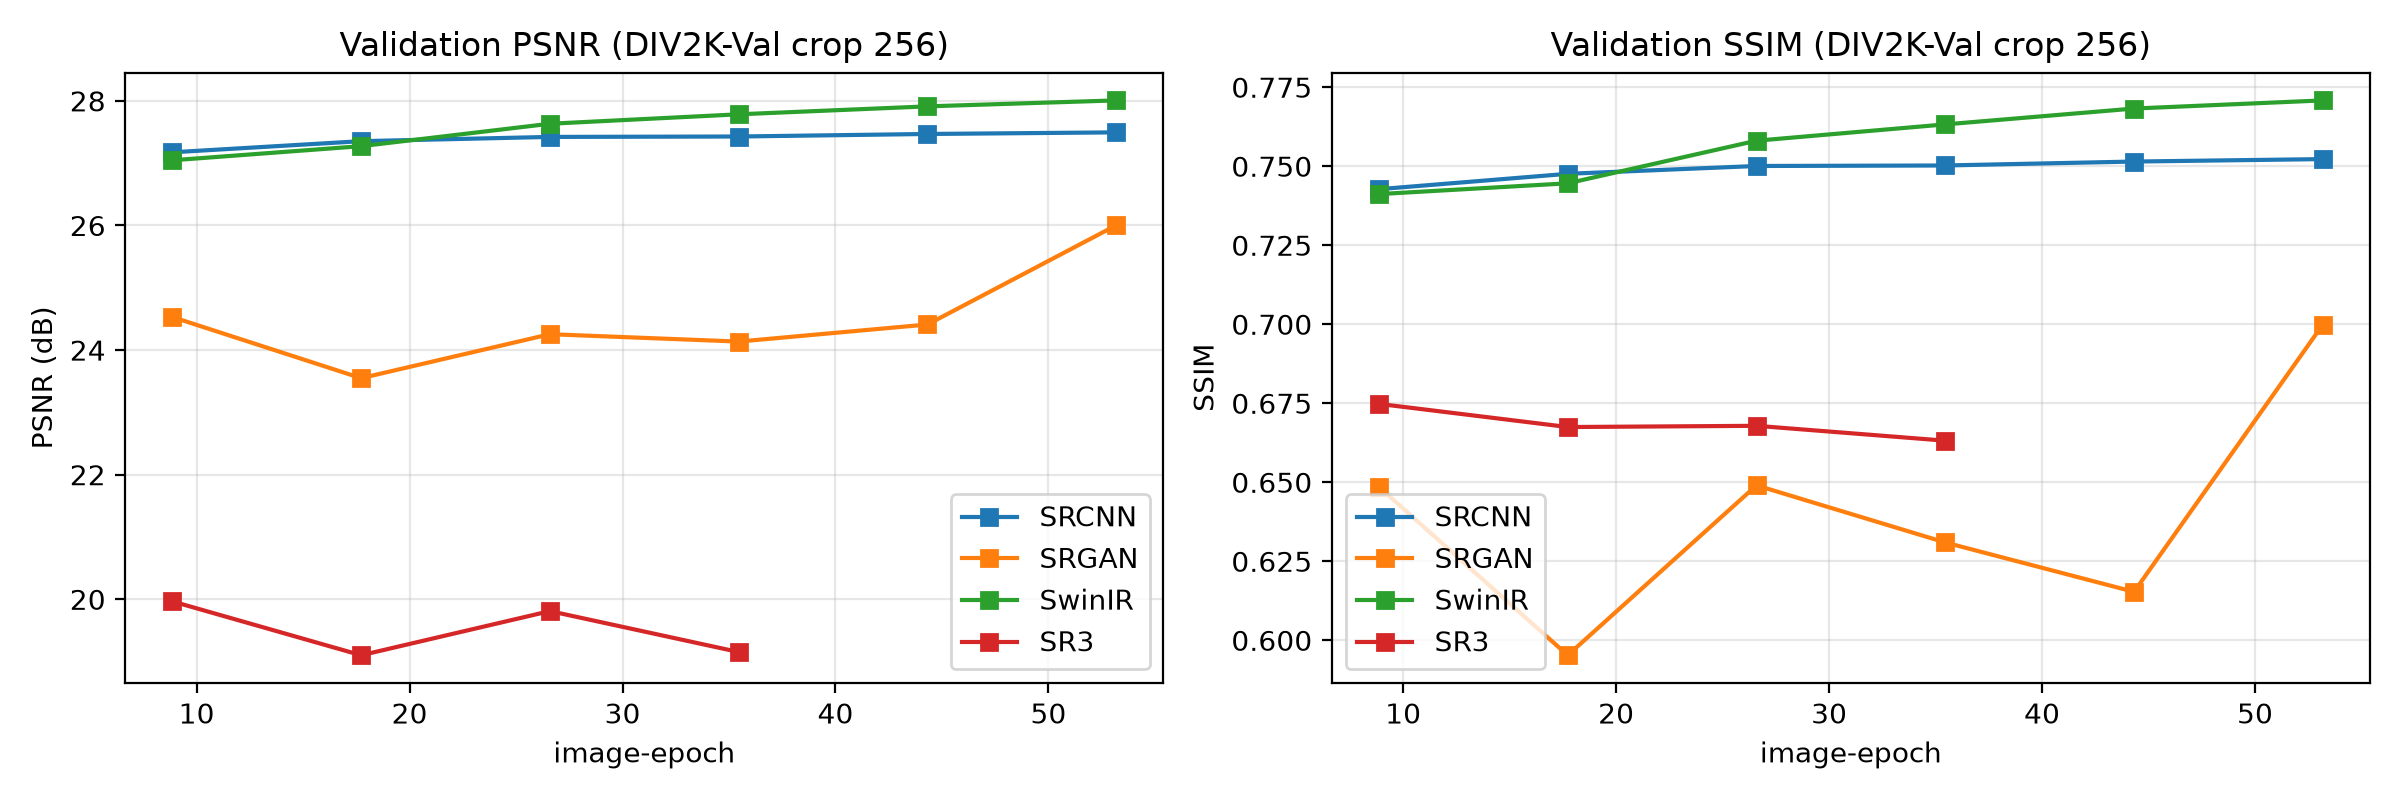
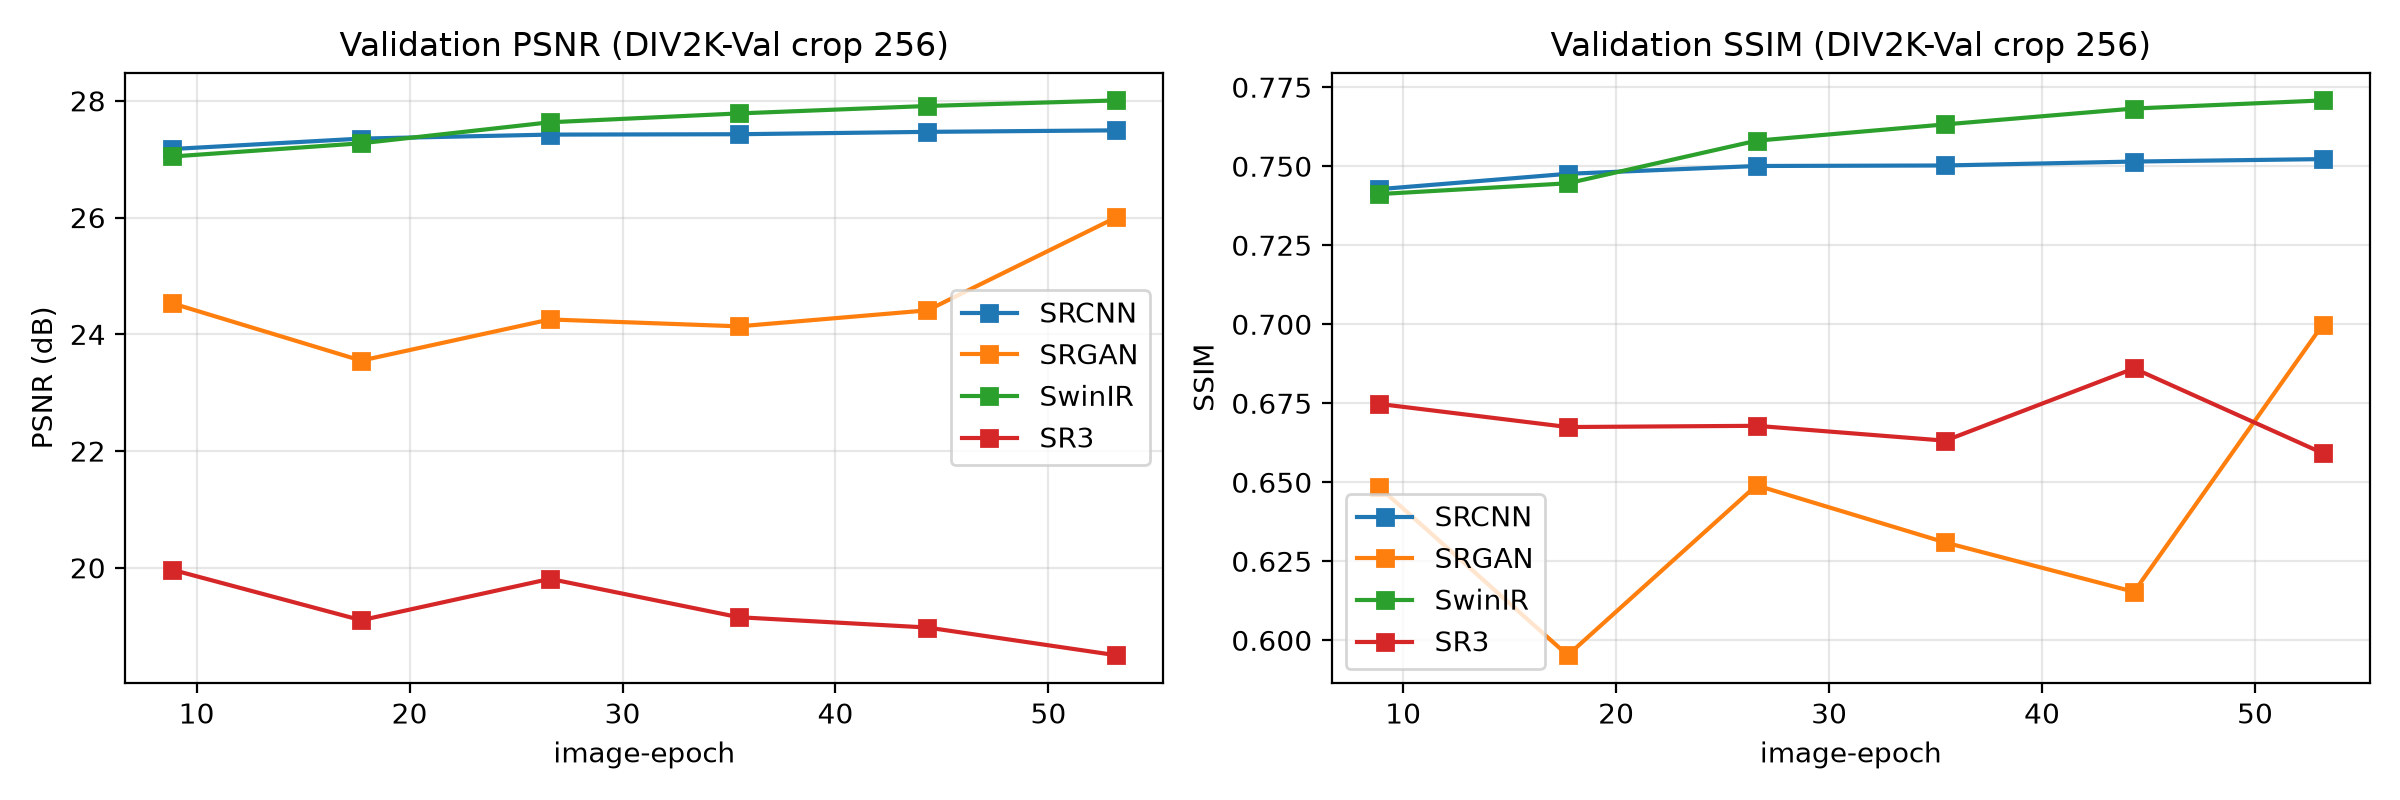
SR3 full-budget run (6 epochs) + unified final-checkpoint eval protocol
Resume SR3 from epoch 4 through the full 6-epoch budget (early stop off).
Two extra epochs trade ~1dB PSNR for large perceptual gains: LPIPS 0.359->0.314,
NIQE 4.85->4.76, MUSIQ 30.3->42.4 (now best), CLIPIQA 0.40->0.53.

Evaluation protocol unified to the final checkpoint after the equal budget for
all four models (identical to best-checkpoint for SRCNN/SRGAN/SwinIR, whose val
metric peaked at the last epoch). Updated comparison results, report figures,
and experiments section accordingly.

diff --git a/scripts/eval_all.py b/scripts/eval_all.py
@@ -28,7 +28,8 @@ RUNS = {
 def eval_one(cfg_path):
     cfg = load_config(cfg_path)
     out = Path(f"experiments/{cfg.name}")
-    ckpt = out / "best.pth" if (out / "best.pth").exists() else out / "last.pth"
+    # protocol: final checkpoint after the equal training budget
+    ckpt = out / "last.pth"
     print(f"checkpoint: {ckpt}", flush=True)
     model = build_model(cfg.model).to(DEVICE)
     state = torch.load(ckpt, map_location=DEVICE, weights_only=False)

diff --git a/scripts/make_report_figures.py b/scripts/make_report_figures.py
@@ -92,7 +92,7 @@ def fig_qualitative(indices=(3, 17, 46)):
     for name, cfg_path in MODELS.items():
         cfg = load_config(cfg_path)
         m = build_model(cfg.model).to(DEVICE).eval()
-        state = torch.load(f"experiments/{cfg.name}/best.pth",
+        state = torch.load(f"experiments/{cfg.name}/last.pth",  # final checkpoint, equal budget
                            map_location=DEVICE, weights_only=False)
         m.load_state_dict(state["model"] if "model" in state else state, strict=False)
         nets[name] = m

diff --git a/results/comparison.md b/results/comparison.md
@@ -3,4 +3,4 @@
 | SRCNN | DIV2K-Val | 0.5841 | 0.3999 | 27.2525 | 8.4330 | 27.4942 | 0.7523 |
 | SRGAN | DIV2K-Val | 0.4317 | 0.3031 | 38.5255 | 5.5990 | 26.0031 | 0.6999 |
 | SwinIR | DIV2K-Val | 0.4682 | 0.3632 | 29.5627 | 8.3487 | 28.0071 | 0.7708 |
-| SR3 | DIV2K-Val | 0.4015 | 0.3586 | 30.2725 | 4.8532 | 19.3194 | 0.6556 |
+| SR3 | DIV2K-Val | 0.5258 | 0.3141 | 42.4383 | 4.7632 | 18.3779 | 0.6547 |